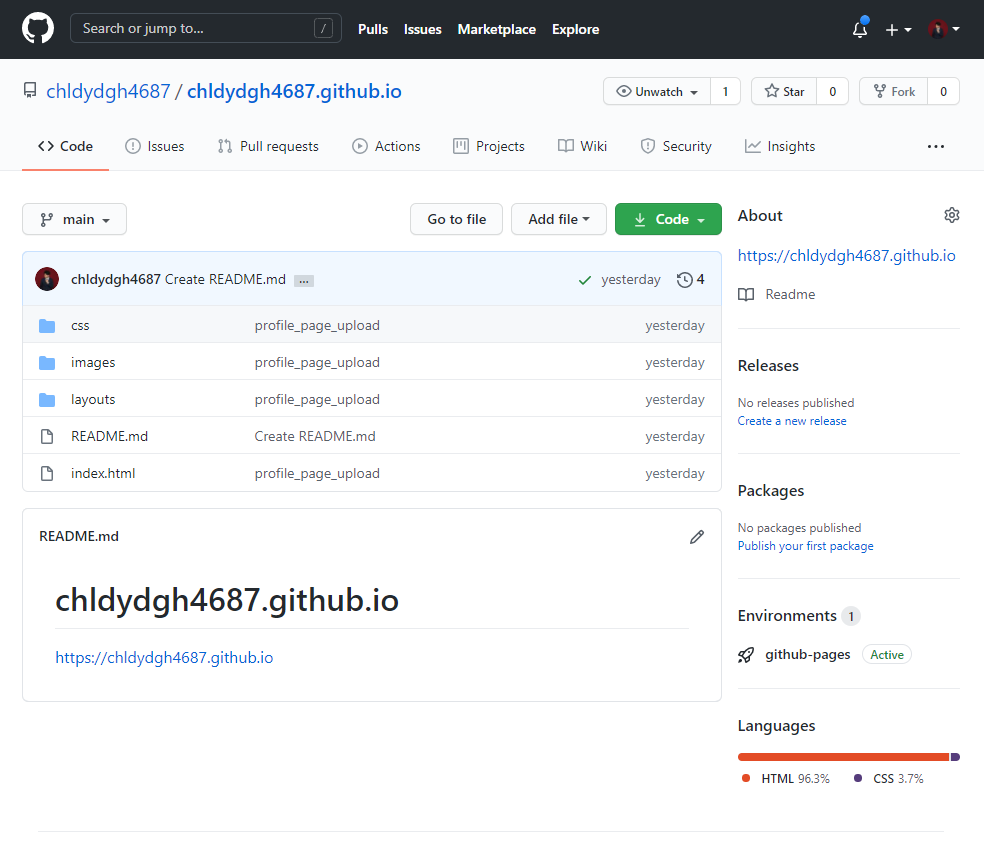
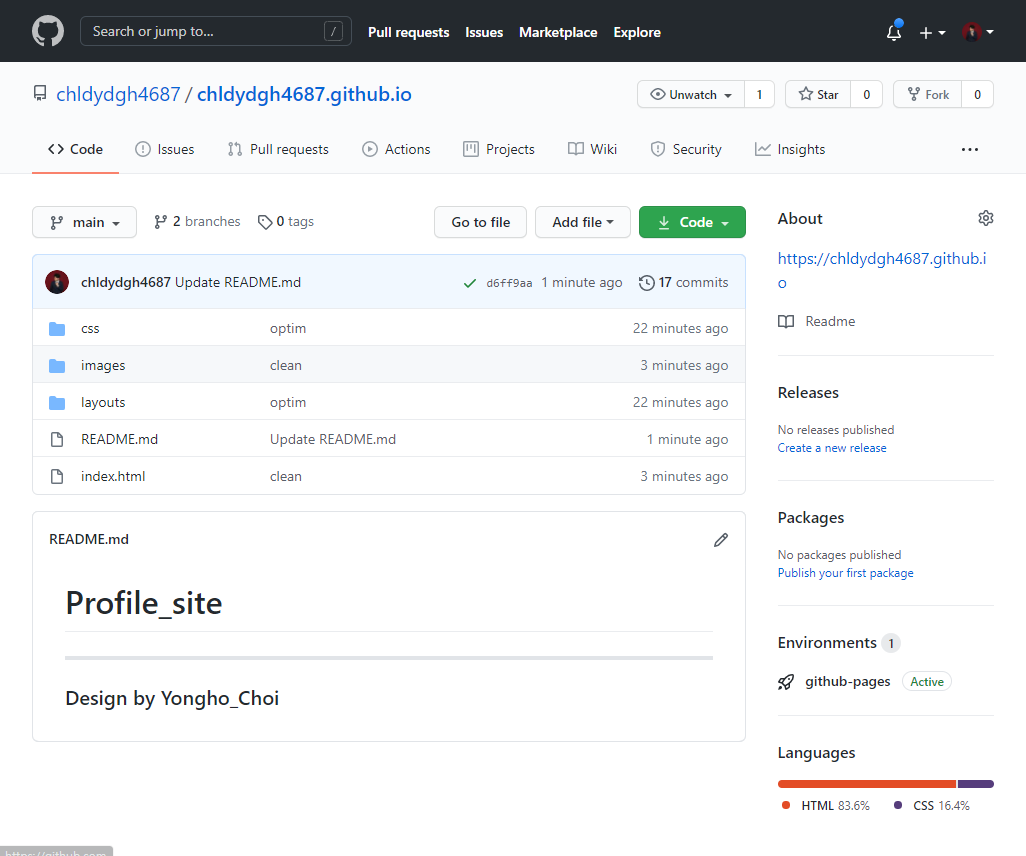
final_clean
final_clean

diff --git a/index.html b/index.html
@@ -17,7 +17,7 @@
         <header>
             <!------------------------logo-------------------------->
             <div id="logo-wrap">
-                <img src="./images/logo.png" alt="" usemap="#github">
+                <a href="./index.html"><img src="./images/logo.png" alt="" usemap="#github"></a>
                 <map name="github">
                     <area shape="rect" coords="455,55,475,75"
                     href="https://github.com/chldydgh4687" target="_blank" alt="github.com/chldydgh4687">
@@ -45,21 +45,30 @@
                     <h1><strong>웹 프로그래밍 '홈페이지 작성' - '프로필 홈페이지'</strong></h1>
                     <hr style = "width:1500px;">
                     <div class=" site_intro_pic" style="margin-right: 20px;">
-                        <img src = "./images/profile_ex.PNG" width = 400px; height = 200px; border="1";>
+                        <fig>
+                            <figcaption><strong>Introduction</strong></figcaption>
+                            <img src = "./images/profile_ex.PNG" width = 400px; height = 250px; border="1";>
+                        </fig>
                     </div>
                     <div class=" site_intro_pic" style="margin-right: 20px;">
-                        <img src = "./images/profile_ex1.PNG" width = 400px; height = 200px; border="1";>
+                        <fig>
+                            <figcaption><strong>Activity</strong></figcaption>
+                            <img src = "./images/profile_ex1.PNG" width = 400px; height = 250px; border="1";>
+                        </fig>
                     </div>
-                    <img src = "./images/github.PNG" width = 820px; height = 700px; border="1" style="margin-bottom:50px;";>
+                    <fig>
+                        <figcaption><strong>Gitpage Repository</strong></figcaption>
+                        <img src = "./images/github.PNG" width = 820px; height = 700px; border="1" style="margin-bottom:50px;";>
+                    </fig>
                 </div>
 
                 <div class="site_intro_text" style="display:inline-block;">
-                    <pre style="font-size:20px"><strong>본 과제에서 저는 <mark>'깃허브 프로필 홈페이지'</mark> 제작을 진행해보았습니다.</strong></pre>
+                    <pre style="font-size:20px"><strong>본 과제에서 <mark>'깃허브 프로필 홈페이지'</mark> 제작을 진행해보았습니다.</strong></pre>
                     <ul>
                         <li>제작 기간 : <input type="text" size="10" value="11 / 30 ~ 12 / 5" readonly> </li>
-                        <li>+ a 기능 : gitpages 연동 및 'Develop' 브런치 관리 / Activity 메뉴 / Top 버튼 제작 </li>
                         <li>홈페이지 주소 : <a href="https://chldydgh4687.github.io">https://chldydgh4687.github.io</a>
                         <li>깃 레포지토리 : <a href="https://github.com/chldydgh4687/chldydgh4687.github.io" target="_blank">[Git repository]</a></li>
+                        <li style="text-decoration:underline;">본 홈페이지는 PC환경에 최적화되어있습니다.</li>
                     </ul>
 
                     <pre style="font-size:20px; margin-top:50px;"><strong>홈페이지 구성</strong></pre>
@@ -122,19 +131,19 @@
                         <li style="text-decoration:line-through;">storng 굵게 표시 / b 태그를 잘 안쓰는 이유 / em 이탤릭체 / q 인용표시 ""로 표기 / mark 형광펜</li>
                         <li style="text-decoration:line-through;">span 줄 안에서 묶기 /  div 단락으로 묶기</li>
                         <li style="text-decoration:line-through;">ul 순서없는 목록 대괄호 태그 / ol 순서있는 목록 대괄호 태그 / li 리스트 태그</li>
-                        <li>dl 목록 대괄호 dt 줄목록 dd 줄글목록</li>
+                        <li style="text-decoration:line-through;">dl 목록 대괄호 dt 줄목록 dd 줄글목록</li>
                     </ol>
                     <li>4주차 </li>
                     <ol>
-                        <li>table 테이블 태그</li>
-                        <li>tr ~ /tr : 행 td ~ /td : 셀, th ~ /th 제목 셀</li>
+                        <li style="text-decoration:line-through;">table 테이블 태그</li>
+                        <li style="text-decoration:line-through;">tr ~ /tr : 행 td ~ /td : 셀, th ~ /th 제목 셀</li>
                         <li>colspan, rowspan : 행 또는 열 합치기, 몇 칸할 것인지 정해줌</li>
                         <li>colgroup ~ /colgroup : 열의 스타일 표시</li>
 
                         <li>figcaption : 표 제목 (속성 위치에 따라 표의 위나 아래에 제목 표시) </li>
                         <li>thead / tbody / tfoot : 표 구조 정의하기</li>
-                        <li>img 이미지 태그 / src 경로 속성 / width, height : 이미지크기 조정 속성</li>
-                        <li>figure figcaption : 이미지에 설명글 붙이기 (figure 안에 img 태그하고 img 위 figcaption img 아래 figcaption이 다름)</li>
+                        <li style="text-decoration:line-through;">img 이미지 태그 / src 경로 속성 / width, height : 이미지크기 조정 속성</li>
+                        <li style="text-decoration:line-through;">figure figcaption : 이미지에 설명글 붙이기 (figure 안에 img 태그하고 img 위 figcaption img 아래 figcaption이 다름)</li>
                     </ol>
                     <li>5주차</li>
                     <ol style="text-decoration:line-through;">
@@ -158,8 +167,8 @@
                     </ol>
                     <li>8주차</li>
                     <ol>
-                        <li>원칙 1: 스타일 우선 순위 / 원칙 2: 스타일 상속</li>
-                        <li>다른 브라우저를 위해 브라우저 접두사를 붙여 사용하기도 함</li>
+                        <li style="text-decoration:line-through;">원칙 1: 스타일 우선 순위 / 원칙 2: 스타일 상속</li>
+                        <li style="text-decoration:line-through;">다른 브라우저를 위해 브라우저 접두사를 붙여 사용하기도 함</li>
                         <li style="text-decoration:line-through;">텍스트 관련 스타일 : 직접 웹 폰트 업로드해서 사용하기 / font-size / font-weight / font-variant / </li>
                         <li style="text-decoration:line-through;">font-style / font / color / text-decoration(none, underline, overline, line-through ) / text-transform (대소, 소대 전환)</li>
                         <li>text-shadow 속성 / white-space 속성 ( 자간 )</li>
@@ -208,12 +217,24 @@
                     </ol>
                     <li>12주차 </li>
                     <ol>
-                        <li>내용 없음</li>
+                        <li>iframe / HTML5 비디오와 음악처리 </li>
+                        <li style="text-decoration:line-through;">다양한 선택자 개념 / 하위 선택자 / 자식 선택자 / 인접 형제 선택자 / 형제 선택자 / 속성 선택자 / 속성값 선택자 / 속성 ~= 값 넡개자 / 속성 |= 값 선택자</li>
                     </ol>
                     <li>13주차 </li>
                     <ol>
-                        <li>내용 없음</li>
+                        <li>또 다른 선택자들 / [속성 ^= 값] 선택자 / [속성 $= 값] 선택자 / [속성 *= 값]</li>
+                        <li style="text-decoration:line-through;">가상 클래스와 가상 요소 ( :link / :visited / :hover / :focus )</li>
+                        <li style="text-decoration:line-through;">(:enabled, :disabled, :checked ...</li>
+                        <li>(:first-child :last-child ::first-line ::first-letter ::before ::after)</li>
+                        <br>
+                        <li style="text-decoration:line-through;">translate / scale / rotate / skew / transform-origin / perspective 속성 / backface-visibility / transition  </li>
                     </ol>
+                     <li>14주차</li>
+                    <ul>
+                        <li style="text-decoration:line-through;">애니메이션 / 가변 이미지 / 가면 비디오</li>
+                        <li>미디어 쿼리</li>
+                    </ul>
+
                 </ul>
             </div>
         </section>
@@ -222,8 +243,19 @@
             <!------------------------제작자-------------------------->
             <div class="footer_context">
                 <hr>
-                <p class="made_by">Assginment by "WebProgramming" of Sejong University, Intelligent Mechatronics Of School<br>
-                    @ Designed by Yongho_Choi, chldydgh4687@gmail.com</p>
+                <div class="contact">
+                    <table border="0" width="1500">
+                        <tr>
+                            <td>contact</td>
+                            <td style="text-align: left;" width="1200">
+                                <pre>    @ email. chldydgh4687@gmail.com<br>    @ IVCL,AI center of Sejong Unviersity</pre>
+                            </td>
+                        </tr>
+                    </table>
+                </div>
+                <hr>
+                <p> Assginment by "WebProgramming" of Sejong University, Intelligent Mechatronics Of School<br>
+                    @ Designed by Yongho_Choi</p>
             </div>
         </footer>
 

diff --git a/layouts/Introduction.html b/layouts/Introduction.html
@@ -12,17 +12,14 @@
         <link rel="stylesheet" href="../css/back_ground.css">
         <!-----------------------------------context----------------------------->
         <link rel="stylesheet" href="../css/context.css">
-        <!-----------------------------------footer----------------------------->
-        <link rel="stylesheet" href="../css/footer_style.css">
-
-        <!-----------------------------------footer----------------------------->
+        <!-----------------------------------intro----------------------------->
         <link rel="stylesheet" href="../css/intro_style.css">
     </head>
     <body>
         <header>
             <!------------------------logo-------------------------->
             <div id="logo-wrap">
-                <img src="../images/logo.png" alt="" usemap="#github">
+                <a href="../index.html"><img src="../images/logo.png" alt="" usemap="#github"></a>
                 <map name="github">
                     <area shape="rect" coords="455,55,475,75"
                     href="https://github.com/chldydgh4687" target="_blank" alt="github.com/chldydgh4687">
@@ -75,14 +72,24 @@
         
         
         <footer>
-             <!------------------------제작자-------------------------->
-            <div class="footer_context" style="clear:both">
+            <!------------------------제작자-------------------------->
+            <div class="footer_context">
                 <hr>
-                <p class="made_by">Assginment by "WebProgramming" of Sejong University, Intelligent Mechatronics Of School<br>
-                    @ Designed by Yongho_Choi, chldydgh4687@gmail.com</p>
+                <div class="contact">
+                    <table border="0" width="1500">
+                        <tr>
+                            <td>contact</td>
+                            <td style="text-align: left;" width="1200">
+                                <pre>    @ email. chldydgh4687@gmail.com<br>    @ IVCL,AI center of Sejong Unviersity</pre>
+                            </td>
+                        </tr>
+                    </table>
+                </div>
+                <hr>
+                <p> Assginment by "WebProgramming" of Sejong University, Intelligent Mechatronics Of School<br>
+                    @ Designed by Yongho_Choi</p>
             </div>
         </footer>
-       
         <!-------------------------TOP_BUTTON------------------------->
         <div id="top_button">
             <a href="#logo-wrap"><img src="../images/top_button.jpg" title="위로 가기"></a>

diff --git a/layouts/Activity.html b/layouts/Activity.html
@@ -30,7 +30,7 @@
                         <h3 style="text-align: center;">Git Repository</h3>
                         <dl>
                             <dd><a href="https://github.com/chldydgh4687/2020-2.simple_DCSCN" target="_blank">2020-2.simple_DCSCN</a></dd>
-                            <dd><a href="https://github.com/chldydgh4687/2020-1.Creative.VideoCaptioning">2020-1.Creative.VideoCaptioning</a></dd>
+                            <dd><a href="https://github.com/chldydgh4687/2020-1.Creative.VideoCaptioning" target="_blank">2020-1.Creative.VideoCaptioning</a></dd>
                         </dl>                        
                     </div>
                 </div>
@@ -38,7 +38,7 @@
 
             <!------------------------logo-------------------------->
             <div id="logo-wrap">
-                <img src="../images/logo.png" alt="" usemap="#github" style="z-index:1;">
+                <a href="../index.html"><img src="../images/logo.png" alt="" usemap="#github" style="z-index:1;"></a>
                 <map name="github">
                     <area shape="rect" coords="455,55,475,75"
                     href="https://github.com/chldydgh4687" target="_blank" alt="github.com/chldydgh4687">
@@ -82,8 +82,19 @@
             <!------------------------제작자-------------------------->
             <div class="footer_context">
                 <hr>
-                <p class="made_by">Assginment by "WebProgramming" of Sejong University, Intelligent Mechatronics Of School<br>
-                    @ Designed by Yongho_Choi, chldydgh4687@gmail.com</p>
+                <div class="contact">
+                    <table border="0" width="1500">
+                        <tr>
+                            <td>contact</td>
+                            <td style="text-align: left;" width="1200">
+                                <pre>    @ email. chldydgh4687@gmail.com<br>    @ IVCL,AI center of Sejong Unviersity</pre>
+                            </td>
+                        </tr>
+                    </table>
+                </div>
+                <hr>
+                <p> Assginment by "WebProgramming" of Sejong University, Intelligent Mechatronics Of School<br>
+                    @ Designed by Yongho_Choi</p>
             </div>
         </footer>
     </body>

diff --git a/css/back_ground.css b/css/back_ground.css
@@ -75,9 +75,15 @@ mark{
     margin-left: 200px;
     margin-bottom: 80px;
     width: 1500px;
-}
-
-.made_by{
     font-size:15px;
     color: darkgray;
+}
+
+table {
+    border-collapse: collapse;
+    border-style: hidden;
+}
+
+table td, table th {
+    border: 1px solid darkgray;
 }

diff --git a/css/context.css b/css/context.css
@@ -15,9 +15,15 @@
     width:850px;
     float:left;
 }
+.site_intro figcaption{
+    text-align:center;
+    margin: 10px;
+    
+}
+
 .site_intro_pic{
     float:left;
-    margin-top:30px;
+    margin-top:10px;
     margin-bottom: 30px;
 }
 .site_intro_text{
